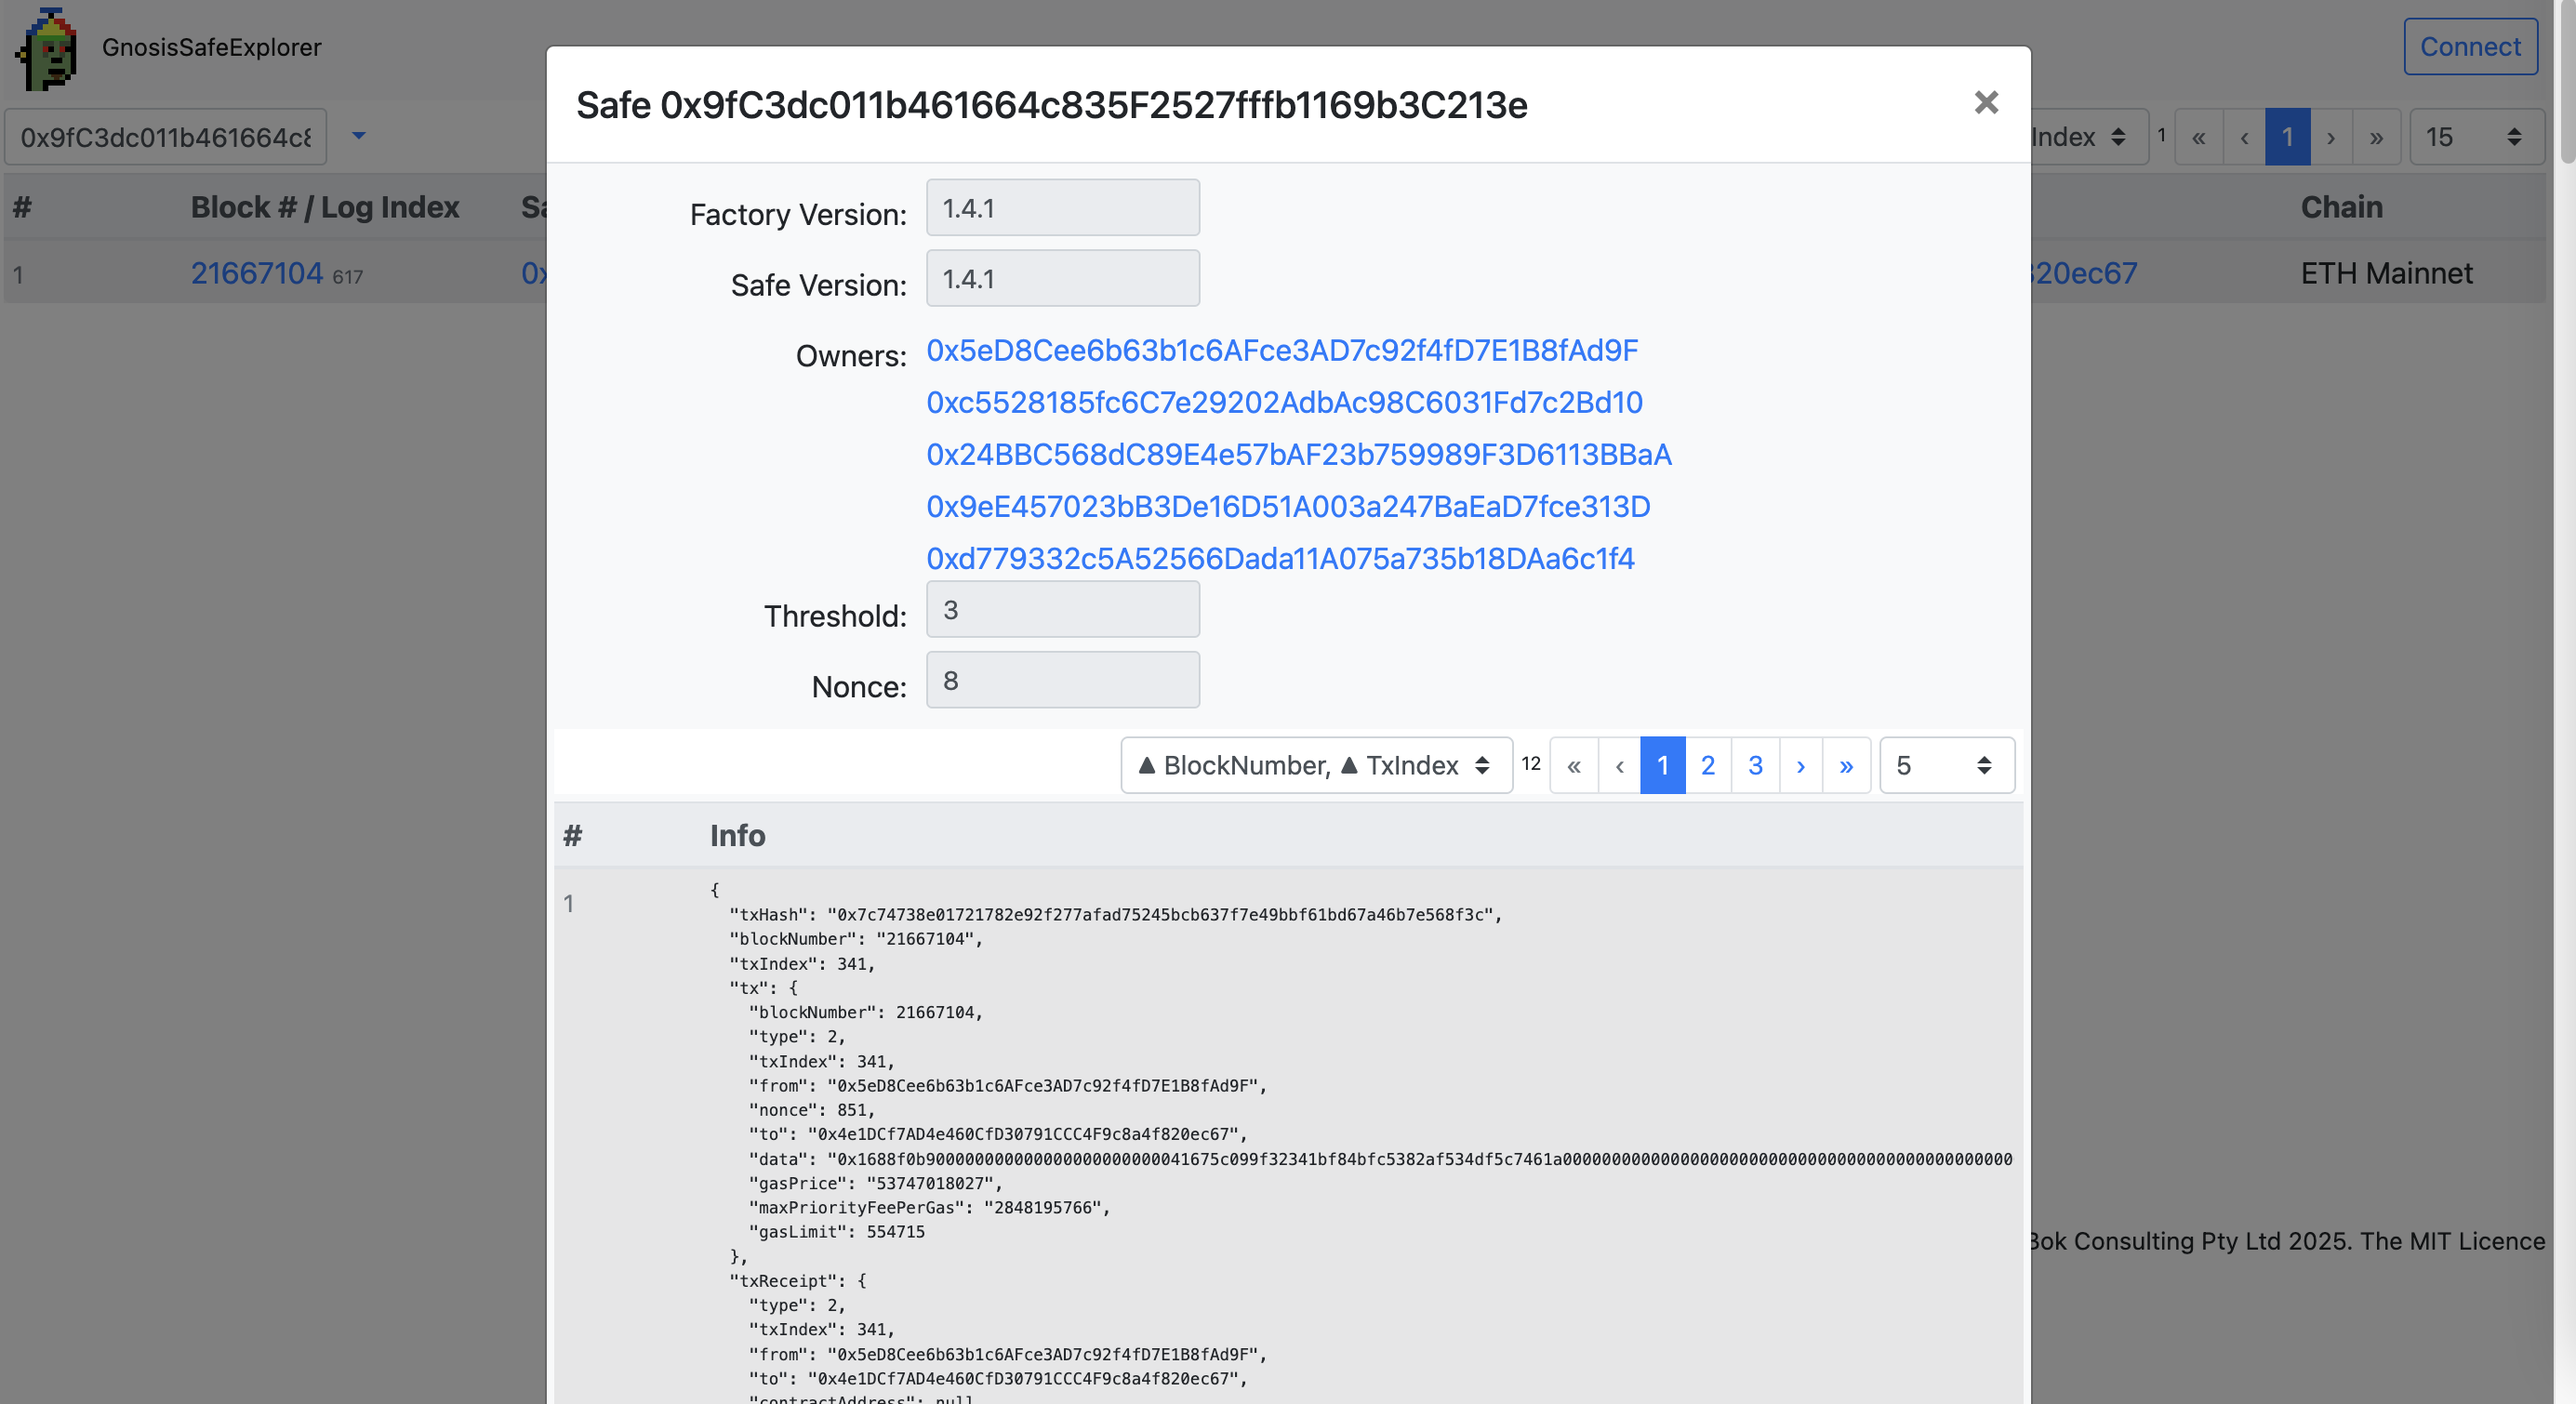
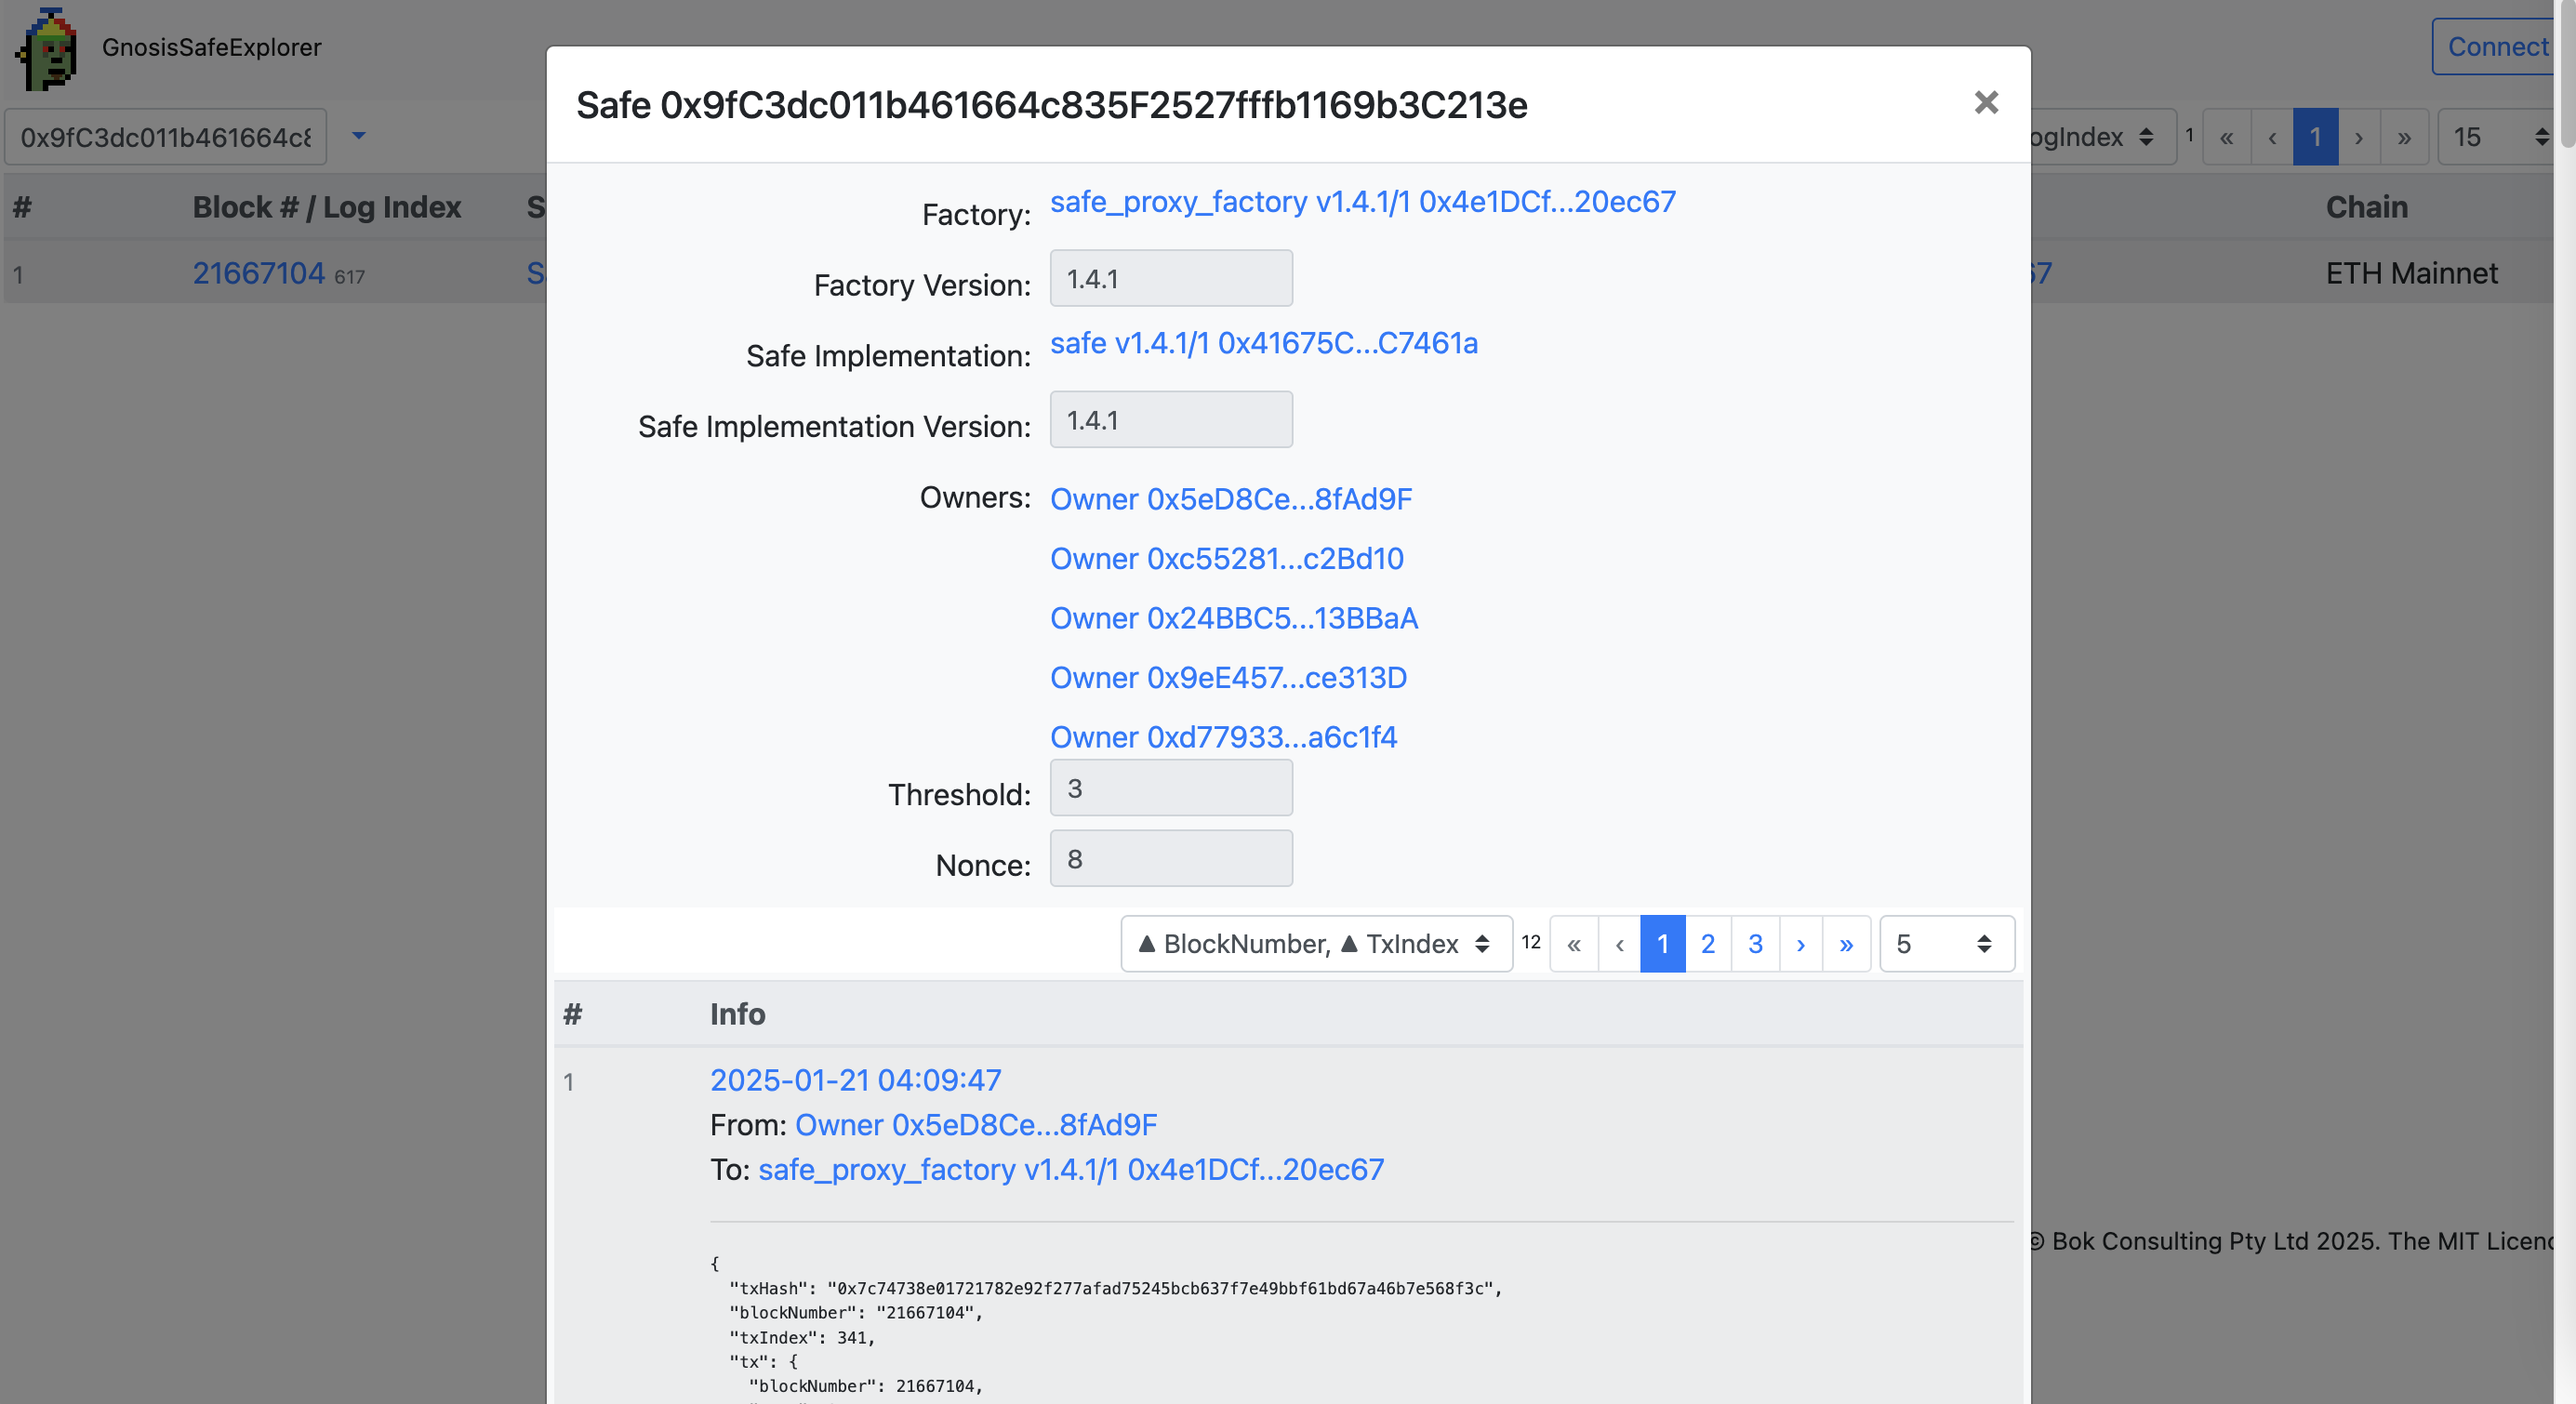
lookup names

diff --git a/docs/index.html b/docs/index.html
@@ -73,31 +73,34 @@
           <template #modal-title>
             Safe {{ modalSafe.safe || '' }}
           </template>
-          <b-form-group label="Factory Version:" label-cols="3" label-align="right" class="m-0">
+          <b-form-group label="Factory:" label-cols="4" label-align="right" class="m-0">
+            <b-link v-if="modalSafe.factory" :href="'https://etherscan.io/address/' + lookupAddress(modalSafe.factory)" target="_blank">
+              {{ lookupName(modalSafe.factory) }}
+            </b-link>
+          </b-form-group>
+          <b-form-group label="Factory Version:" label-cols="4" label-align="right" class="m-0">
             <b-form-input type="text" readonly size="sm" :value="modalSafe.info.factoryVersion" class="w-25"></b-form-input>
           </b-form-group>
-          <b-form-group label="Safe Version:" label-cols="3" label-align="right" class="m-0">
+          <b-form-group label="Safe Implementation:" label-cols="4" label-align="right" class="m-0">
+            <b-link v-if="modalSafe.info.implementation" :href="'https://etherscan.io/address/' + lookupAddress(modalSafe.info.implementation)" target="_blank" class="mt-2">
+              {{ lookupName(modalSafe.info.implementation) }}
+            </b-link>
+          </b-form-group>
+          <b-form-group label="Safe Implementation Version:" label-cols="4" label-align="right" class="m-0">
             <b-form-input type="text" readonly size="sm" :value="modalSafe.info.safeVersion" class="w-25"></b-form-input>
           </b-form-group>
-          <b-form-group label="Owners:" label-cols="3" label-align="right" class="m-0">
+          <b-form-group label="Owners:" label-cols="4" label-align="right" class="m-0">
             <!-- {{ modalSafe.info.owners }} -->
-            <div v-for="(owner, index) of (modalSafe.info.owners || [])" v-bind:key="index" class="mt-1">
-              <!-- <b-row>
-                <b-col>
-                  {{ index }}
-                </b-col>
-                <b-col cols="11"> -->
-                  <b-link :href="'https://etherscan.io/address/' + lookupAddress(owner)" v-b-popover.hover.bottom="'View in etherscan.io'" target="_blank">
-                    {{ lookupName(owner) }}
-                  </b-link>
-                <!-- </b-col>
-              </b-row> -->
+            <div v-for="(owner, index) of (modalSafe.info.owners || [])" v-bind:key="index" class="mt-2">
+              <b-link :href="'https://etherscan.io/address/' + lookupAddress(owner)" target="_blank">
+                {{ lookupName(owner) }}
+              </b-link>
             </div>
           </b-form-group>
-          <b-form-group label="Threshold:" label-cols="3" label-align="right" class="m-0">
+          <b-form-group label="Threshold:" label-cols="4" label-align="right" class="m-0">
             <b-form-input type="text" readonly size="sm" :value="modalSafe.info.threshold" class="w-25"></b-form-input>
           </b-form-group>
-          <b-form-group label="Nonce:" label-cols="3" label-align="right" class="m-0">
+          <b-form-group label="Nonce:" label-cols="4" label-align="right" class="m-0">
             <b-form-input type="text" readonly size="sm" :value="modalSafe.info.nonce" class="w-25"></b-form-input>
           </b-form-group>
           <!-- :MENU -->
@@ -138,17 +141,17 @@
               </font>
             </template>
             <template #cell(info)="data">
-              <b-link :href="'https://etherscan.io/tx/' + data.item.txHash" v-b-popover.hover.bottom="'View in etherscan.io'" target="_blank">
+              <b-link :href="'https://etherscan.io/tx/' + data.item.txHash" target="_blank">
                 {{ timestamps[chainId] && timestamps[chainId][data.item.blockNumber] && formatTimestamp(timestamps[chainId][data.item.blockNumber]) || (data.item.blockNumber + ':' + data.item.txIndex) }}
               </b-link>
               <br />
               From:
-              <b-link v-if="data.item.tx && data.item.tx.from" :href="'https://etherscan.io/address/' + lookupAddress(data.item.tx.from)" v-b-popover.hover.bottom="'View in etherscan.io'" target="_blank">
+              <b-link v-if="data.item.tx && data.item.tx.from" :href="'https://etherscan.io/address/' + lookupAddress(data.item.tx.from)" target="_blank">
                 {{ lookupName(data.item.tx.from) }}
               </b-link>
               <br />
               To:
-              <b-link v-if="data.item.tx && data.item.tx.to" :href="'https://etherscan.io/address/' + lookupAddress(data.item.tx.to)" v-b-popover.hover.bottom="'View in etherscan.io'" target="_blank">
+              <b-link v-if="data.item.tx && data.item.tx.to" :href="'https://etherscan.io/address/' + lookupAddress(data.item.tx.to)" target="_blank">
                 {{ lookupName(data.item.tx.to) }}
               </b-link>
               <hr />
@@ -204,11 +207,6 @@
           </div>
 
           <b-card no-body class="m-1 p-0 border-0" bg-variant="light">
-            <!-- <font size="-2">
-              <pre>
-{{ safeContractNames }}
-              </pre>
-            </font> -->
             <b-table ref="safesTable" small fixed striped responsive hover selectable select-mode="single" @row-selected='safesRowSelected' :fields="safesFields" :items="pagedFilteredSortedSafes" show-empty empty-html="Click Sync above to retrieve Safes deployed by Safe factories v1.0.0, v1.1.1, v1.3.0 and v1.4.1" head-variant="light" class="mx-0 my-0">
               <template #cell(index)="data">
                 <font size="-1" class="text-muted">
@@ -224,7 +222,7 @@
                 </div>
               </template>
               <template #cell(blockNumber)="data">
-                <b-link :href="'https://etherscan.io/tx/' + indexToTxHash[data.item.txHashIndex] + '#eventlog#' + data.item.logIndex" v-b-popover.hover.bottom="'View in etherscan.io'" target="_blank">
+                <b-link :href="'https://etherscan.io/tx/' + indexToTxHash[data.item.txHashIndex] + '#eventlog#' + data.item.logIndex" target="_blank">
                   {{ data.item.blockNumber }}
                 </b-link>
                 <font size="-2" class="text-muted">
@@ -232,7 +230,7 @@
                 </font>
               </template>
               <template #cell(safe)="data">
-                <b-link :href="'https://etherscan.io/address/' + lookupAddress(data.item.safeAddressIndex)" v-b-popover.hover.bottom="'View in etherscan.io'" target="_blank">
+                <b-link :href="'https://etherscan.io/address/' + lookupAddress(data.item.safeAddressIndex)" target="_blank">
                   {{ lookupName(data.item.safeAddressIndex) }}
                 </b-link>
                 <b-link :href="'https://app.safe.global/transactions/history?safe=eth:' + lookupAddress(data.item.safeAddressIndex)" v-b-popover.hover.bottom="'View in app.safe.global'" target="_blank">
@@ -240,7 +238,7 @@
                 </b-link>
               </template>
               <template #cell(factory)="data">
-                <b-link :href="'https://etherscan.io/address/' + lookupAddress(data.item.factoryAddressIndex)" v-b-popover.hover.bottom="'View in etherscan.io'" target="_blank">
+                <b-link :href="'https://etherscan.io/address/' + lookupAddress(data.item.factoryAddressIndex)" target="_blank">
                   {{ lookupName(data.item.factoryAddressIndex) }}
                 </b-link>
               </template>
@@ -439,7 +437,7 @@
               for (const [chainId, chainData] of Object.entries(versionData)) {
                 for (const [contractName, address] of Object.entries(chainData)) {
                   // console.log(version + "/" + chainId + "/" + contractName + " => " + address);
-                  results[address] = contractName + " v" + version + "/" + chainId;
+                  results[address] = contractName + " v" + version + "/" + chainId + " " + address.substring(0, 8) + '...' + address.slice(-6);
                 }
               }
             }
@@ -807,10 +805,11 @@
             // console.log(moment().format("HH:mm:ss") + " retrieveSafeEvents - latestBlockNumber: " + latestBlockNumber);
 
             const allSafesAbi = [
-              "function VERSION() external view returns (string)",
+              "function VERSION() public view returns (string)",
               "function getOwners() public view returns (address[] memory)",
               "function getThreshold() public view returns (uint256)",
-              "function nonce() external view returns (uint256)",
+              "function nonce() public view returns (uint256)",
+              "function getStorageAt(uint256 offset, uint256 length) public view returns (bytes memory)",
             ];
             const allSafesContract = new ethers.Contract(this.modalSafe.safe, allSafesAbi, provider);
             let safeVersion = null;
@@ -822,6 +821,17 @@
             }
             Vue.set(this.modalSafe.info, 'factoryVersion', factoryVersion);
             Vue.set(this.modalSafe.info, 'safeVersion', safeVersion);
+
+            let implementation = null;
+            try {
+              implementation = ethers.utils.getAddress('0x' + (await allSafesContract.getStorageAt(0, 1)).substring(26, 66));
+              console.log(moment().format("HH:mm:ss") + " retrieveSafeEvents - implementation: " + JSON.stringify(implementation));
+            } catch (e) {
+              console.error(moment().format("HH:mm:ss") + " retrieveSafeEvents - implementation - error: " + e.message);
+            }
+            Vue.set(this.modalSafe.info, 'implementation', implementation);
+
+
             let owners = null;
             try {
               owners = await allSafesContract.getOwners();
@@ -1225,19 +1235,19 @@
           lookupName(a) {
             if (a.toString().length < 42) {
               if (this.chainId && (a in this.safes[this.chainId])) {
-                a = "Safe " + this.indexToAddress[a];
+                a = "Safe " + this.indexToAddress[a].substring(0, 8) + '...' + this.indexToAddress[a].slice(-6);
               } else {
                 a = this.indexToAddress[a];
               }
             } else {
               if (this.chainId && (this.addressToIndex[a] in this.safes[this.chainId])) {
-                a = "Safe " + a;
+                a = "Safe " + a.substring(0, 8) + '...' + a.slice(-6);
               }
             }
             if (a in this.safeContractNames) {
               a = this.safeContractNames[a];
             } else if (a in this.modalSafeOwners) {
-              a = "Owner " + a;
+              a = "Owner " + a.substring(0, 8) + '...' + a.slice(-6);
             }
             return a;
           },
